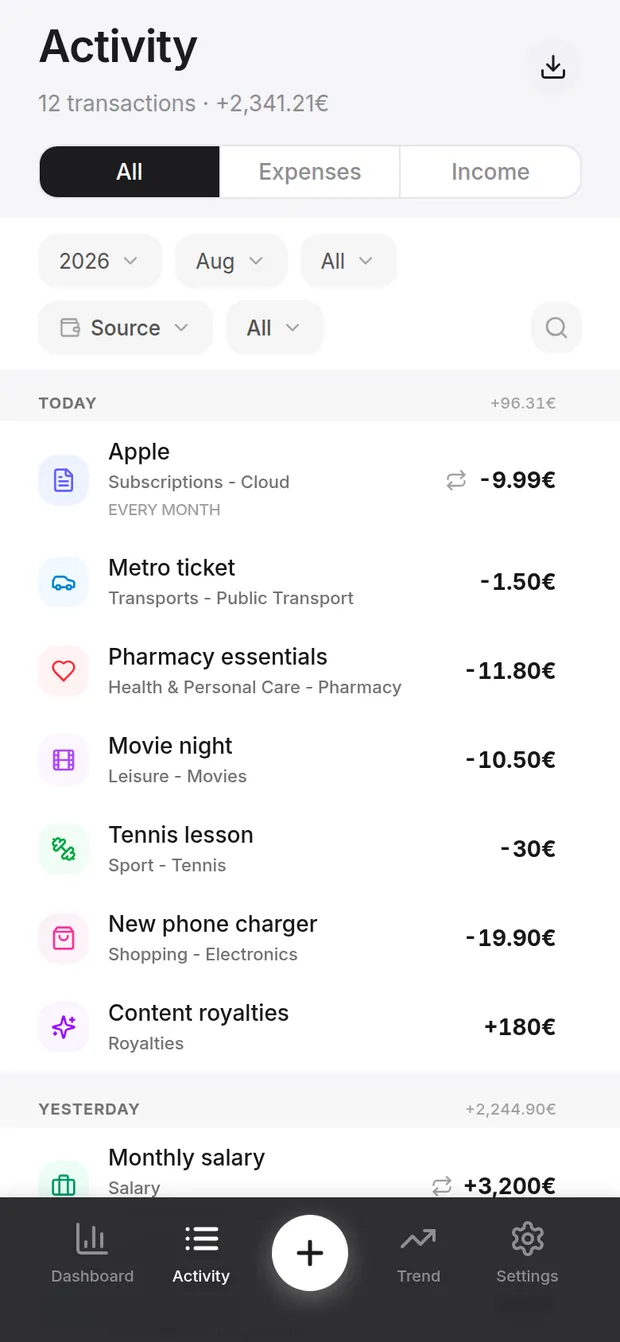
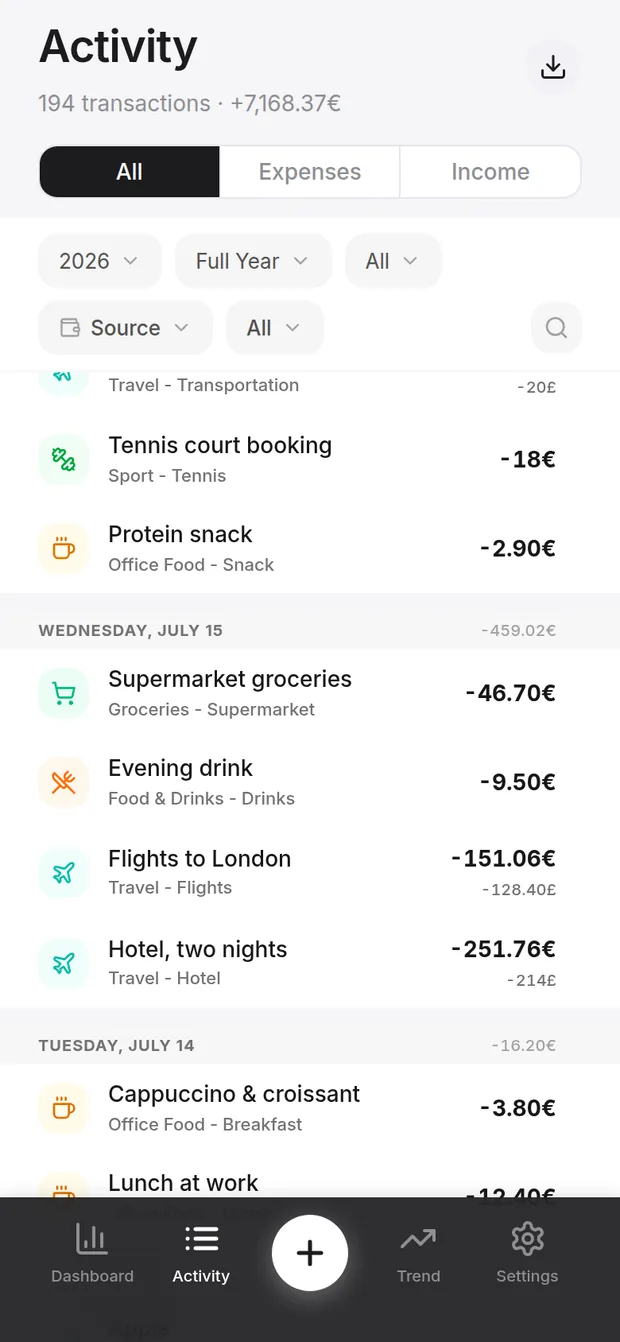
Give the demo data a trip abroad, so multi-currency is visible in it
The sample dataset was entirely single-currency: getDemoTransactions converted
every row into the user's own and stamped it, so anyone tapping "Load demo
data" to evaluate the app never met the feature travellers come for. The
website advertised something the demo could not show.

Four rows now carry their own currency - flights, a hotel, dinner and a travel
card for a couple of days in London, priced in pounds. They keep it: the
conversion is skipped for foreign rows, and their home value is locked at the
day's rate exactly as a saved transaction does. Activity then shows what the
app really does, "-151.06EUR" with "-128.40GBP" beneath it.

Checked with EUR and USD as the home currency: the trip stays in pounds while
everything else follows the user's, every foreign row carries a locked home
value, and no dashboard total leaks a pound sign.

The site's Activity screenshot is retaken over the same data, so the picture
now demonstrates the currency card next to it rather than sitting beside it.

Claude-Session: https://claude.ai/code/session_0126ysxz7sQBPUDYG5JidVgX

diff --git a/src/app/lib/demoData.ts b/src/app/lib/demoData.ts
@@ -1,5 +1,5 @@
 import { mockExpenses } from '../components/mockExpenses';
-import { convertAmount } from '../utils/currency';
+import { convertAmount, BASE_CURRENCY } from '../utils/currency';
 import type { Transaction } from '../types';
 
 // The sample dataset has fixed dates. Shift every transaction by whole months
@@ -33,17 +33,29 @@ export function getDemoTransactions(currency: string): Transaction[] {
     now.getDate(),
   ).padStart(2, '0')}`;
 
-  return mockExpenses.map((transaction) => ({
-    ...transaction,
-    id: `demo-${transaction.id}`,
-    date: (() => {
-      const shifted = shiftMonths(transaction.date, offset);
-      return shifted > todayStr ? todayStr : shifted;
-    })(),
-    amount:
-      currency === 'EUR'
+  return mockExpenses.map((transaction) => {
+    // Most sample rows are priced in the user's own currency, so they are
+    // converted from the EUR figures in the file. A handful carry an explicit
+    // foreign currency - a trip abroad - and those keep it: converting them
+    // would erase the very thing they are there to show. Their home value is
+    // locked at today's rate, exactly as the app does when you save one.
+    const foreign = transaction.currency && transaction.currency !== 'EUR';
+    return {
+      ...transaction,
+      id: `demo-${transaction.id}`,
+      date: (() => {
+        const shifted = shiftMonths(transaction.date, offset);
+        return shifted > todayStr ? todayStr : shifted;
+      })(),
+      amount: foreign
         ? transaction.amount
-        : Math.round(convertAmount(transaction.amount, 'EUR', currency) * 100) / 100,
-    currency,
-  }));
+        : currency === 'EUR'
+          ? transaction.amount
+          : Math.round(convertAmount(transaction.amount, 'EUR', currency) * 100) / 100,
+      currency: foreign ? transaction.currency : currency,
+      ...(foreign
+        ? { baseAmount: convertAmount(transaction.amount, transaction.currency, BASE_CURRENCY) }
+        : {}),
+    };
+  });
 }

diff --git a/src/app/components/mockExpenses.ts b/src/app/components/mockExpenses.ts
@@ -1551,6 +1551,50 @@ const mockExpensesWithoutCurrency = [
     date: '2026-01-15',
     type: 'expense' as const
   },
+  // A short trip abroad, priced in the local currency. These rows keep their
+  // own currency instead of being converted like the rest of the sample - the
+  // demo should show what the app actually does with a foreign purchase, not
+  // just claim it in the tour.
+  {
+    id: 'expense-2026-01-15-gbp1',
+    description: 'Flights to London',
+    amount: 128.40,
+    currency: 'GBP',
+    category: getCategoryByName('Travel', 'expense'),
+    subcategory: 'Flights',
+    date: '2026-01-15',
+    type: 'expense' as const
+  },
+  {
+    id: 'expense-2026-01-15-gbp2',
+    description: 'Hotel, two nights',
+    amount: 214.00,
+    currency: 'GBP',
+    category: getCategoryByName('Travel', 'expense'),
+    subcategory: 'Hotel',
+    date: '2026-01-15',
+    type: 'expense' as const
+  },
+  {
+    id: 'expense-2026-01-16-gbp1',
+    description: 'Dinner in Soho',
+    amount: 46.50,
+    currency: 'GBP',
+    category: getCategoryByName('Travel', 'expense'),
+    subcategory: 'Food',
+    date: '2026-01-16',
+    type: 'expense' as const
+  },
+  {
+    id: 'expense-2026-01-16-gbp2',
+    description: 'Oyster card top-up',
+    amount: 20.00,
+    currency: 'GBP',
+    category: getCategoryByName('Travel', 'expense'),
+    subcategory: 'Transportation',
+    date: '2026-01-16',
+    type: 'expense' as const
+  },
   {
     id: 'expense-2026-01-16',
     description: 'Tennis court booking',
